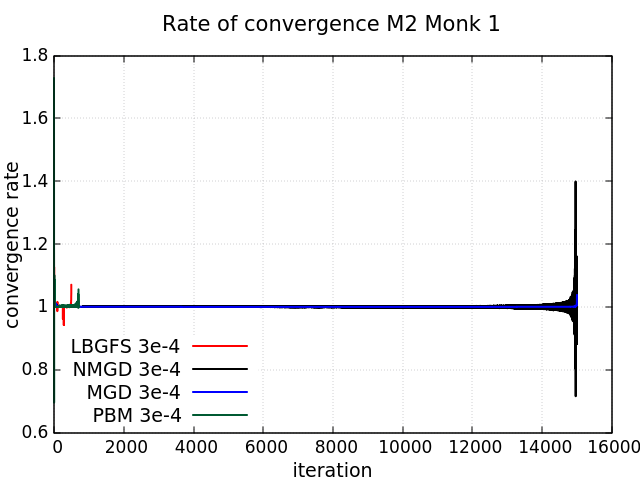
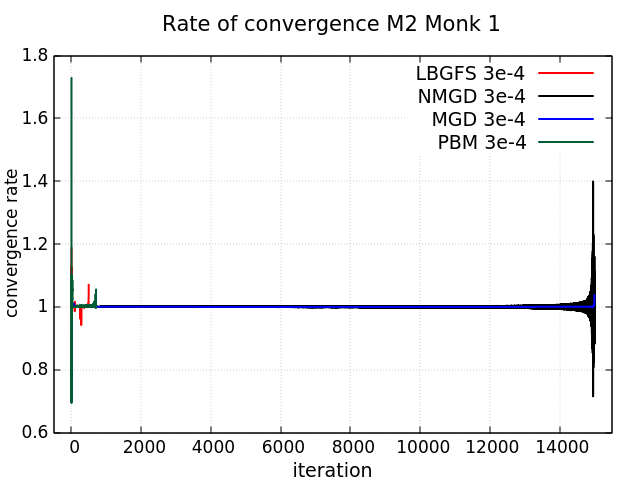
update rate of convergence section

diff --git a/docs/report/sez/experiments.tex b/docs/report/sez/experiments.tex
@@ -134,22 +134,133 @@ As we expect from the analysis we made, L-BFGS reached a superlinear convergence
 It's interesting to view that all of these methods, even with a noisy dataset as Monk 3, converge with the same convergence rate as mentioned in the theory. The rate of convergence curves obtained, also with an enlargement for each of them put to the side, are shown below.
 
 \subsubsection{M1 comparison}
-
+\begin{figure}[H]
+	\centering
+	\includegraphics[width=0.6\linewidth]{data/Comparison/Monk1/Monk1_M1_CR_standard.png}
+	\caption{M1 converge rate comparison Monk 1 of configurations defined in table \ref{tab:nets_comp}.}
+	\label{fig:CR-M1-Monk1-Standard}
+\end{figure}
 
 \begin{figure}[H]
 	\centering
-	\begin{minipage}[t]{0.5\linewidth}		\includegraphics[width=\linewidth]{data/Comparison/Monk1/}
-		\subcaption{Original}
+	\begin{minipage}[t]{0.525\linewidth}		
+		\includegraphics[width=\linewidth]{data/Comparison/Monk1/Monk1_M1_CR_zoomLeft.png}
+		\subcaption{Left zoom}
 	\end{minipage}%
-	\begin{minipage}[t]{0.5\linewidth}
-		\includegraphics[width=\linewidth]{data/Comparison/Monk1/}
-		\subcaption{Zoom}
+	\begin{minipage}[t]{0.525\linewidth}
+		\includegraphics[width=\linewidth]{data/Comparison/Monk1/Monk1_M1_CR_zoomRight.png}
+		\subcaption{Right zoom}
 	\end{minipage}
-	\caption{Converge rate comparison Monk 1 of configurations defined in table \ref{tab:nets_comp}}
-	\label{CR-Monk1}
+	\caption{M1 converge rate comparison Monk 1 of configurations defined in table \ref{tab:nets_comp}.}
+	\label{fig:CR-M1-Monk1-Zoom}
+\end{figure}
+
+\begin{figure}[H]
+	\centering
+	\includegraphics[width=0.6\linewidth]{data/Comparison/Monk2/Monk2_M1_CR_standard.png}
+	\caption{M1 converge rate comparison Monk 2 of configurations defined in table \ref{tab:nets_comp}.}
+	\label{fig:CR-M1-Monk2-Standard}
+\end{figure}
+
+\begin{figure}[H]
+	\centering
+	\begin{minipage}[t]{0.525\linewidth}		
+		\includegraphics[width=\linewidth]{data/Comparison/Monk2/Monk2_M1_CR_zoomLeft.png}
+		\subcaption{Left zoom}
+	\end{minipage}%
+	\begin{minipage}[t]{0.525\linewidth}
+		\includegraphics[width=\linewidth]{data/Comparison/Monk2/Monk2_M1_CR_zoomRight.png}
+		\subcaption{Right zoom}
+	\end{minipage}
+	\caption{M1 converge rate comparison Monk 2 of configurations defined in table \ref{tab:nets_comp}.}
+	\label{fig:CR-M1-Monk2-Zoom}
+\end{figure}
+
+\begin{figure}[H]
+	\centering
+	\includegraphics[width=0.6\linewidth]{data/Comparison/Monk3/Monk3_M1_CR_standard.png}
+	\caption{M1 converge rate comparison Monk 3 of configurations defined in table \ref{tab:nets_comp}.}
+	\label{fig:CR-M1-Monk3-Standard}
+\end{figure}
+
+\begin{figure}[H]
+	\centering
+	\begin{minipage}[t]{0.525\linewidth}		
+		\includegraphics[width=\linewidth]{data/Comparison/Monk3/Monk3_M1_CR_zoomLeft.png}
+		\subcaption{Left zoom}
+	\end{minipage}%
+	\begin{minipage}[t]{0.525\linewidth}
+		\includegraphics[width=\linewidth]{data/Comparison/Monk3/Monk3_M1_CR_zoomRight.png}
+		\subcaption{Right zoom}
+	\end{minipage}
+	\caption{M1 converge rate comparison Monk 3 of configurations defined in table \ref{tab:nets_comp}.}
+	\label{fig:CR-M1-Monk3-Zoom}
 \end{figure}
 
 \subsubsection{M2 comparison}
+\begin{figure}[H]
+	\centering
+	\includegraphics[width=0.6\linewidth]{data/Comparison/Monk1/Monk1_M2_CR_standard.png}
+	\caption{M2 converge rate comparison Monk 1 of configurations defined in table \ref{tab:nets_comp}.}
+	\label{fig:CR-M2-Monk1-Standard}
+\end{figure}
+
+\begin{figure}[H]
+	\centering
+	\begin{minipage}[t]{0.525\linewidth}		
+		\includegraphics[width=\linewidth]{data/Comparison/Monk1/Monk1_M2_CR_zoomLeft.png}
+		\subcaption{Left zoom}
+	\end{minipage}%
+	\begin{minipage}[t]{0.525\linewidth}
+		\includegraphics[width=\linewidth]{data/Comparison/Monk1/Monk1_M2_CR_zoomRight.png}
+		\subcaption{Right zoom}
+	\end{minipage}
+	\caption{M2 converge rate comparison Monk 1 of configurations defined in table \ref{tab:nets_comp}.}
+	\label{fig:CR-M2-Monk1-Zoom}
+\end{figure}
+
+\begin{figure}[H]
+	\centering
+	\includegraphics[width=0.6\linewidth]{data/Comparison/Monk2/Monk2_M2_CR_standard.png}
+	\caption{M2 converge rate comparison Monk 2 of configurations defined in table \ref{tab:nets_comp}.}
+	\label{fig:CR-M2-Monk2-Standard}
+\end{figure}
+
+\begin{figure}[H]
+	\centering
+	\begin{minipage}[t]{0.525\linewidth}		
+		\includegraphics[width=\linewidth]{data/Comparison/Monk2/Monk2_M2_CR_zoomLeft.png}
+		\subcaption{Left zoom}
+	\end{minipage}%
+	\begin{minipage}[t]{0.525\linewidth}
+		\includegraphics[width=\linewidth]{data/Comparison/Monk2/Monk2_M2_CR_zoomRight.png}
+		\subcaption{Right zoom}
+	\end{minipage}
+	\caption{M2 converge rate comparison Monk 2 of configurations defined in table \ref{tab:nets_comp}.}
+	\label{fig:CR-M2-Monk2-Zoom}
+\end{figure}
+
+\begin{figure}[H]
+	\centering
+	\includegraphics[width=0.6\linewidth]{data/Comparison/Monk3/Monk3_M2_CR_standard.png}
+	\caption{M2 converge rate comparison Monk 3 of configurations defined in table \ref{tab:nets_comp}.}
+	\label{fig:CR-M2-Monk3-Standard}
+\end{figure}
+
+\begin{figure}[H]
+	\centering
+	\begin{minipage}[t]{0.525\linewidth}		
+		\includegraphics[width=\linewidth]{data/Comparison/Monk3/Monk3_M2_CR_zoomLeft.png}
+		\subcaption{Left zoom}
+	\end{minipage}%
+	\begin{minipage}[t]{0.525\linewidth}
+		\includegraphics[width=\linewidth]{data/Comparison/Monk3/Monk3_M2_CR_zoomRight.png}
+		\subcaption{Right zoom}
+	\end{minipage}
+	\caption{M2 converge rate comparison Monk 3 of configurations defined in table \ref{tab:nets_comp}.}
+	\label{fig:CR-M2-Monk3-Zoom}
+\end{figure}
+
 
 \subsection{Errors with respect to the minima}
 \label{sec:minimum_error}
@@ -179,11 +290,11 @@ An important thing to notice is that $f^*$ might not be 0 because it depends on 
 
 \begin{figure}[H]
 	\centering
-	\begin{minipage}[t]{0.5\linewidth}
+	\begin{minipage}[t]{0.6\linewidth}
 		\includegraphics[width=\linewidth]{data/Comparison/Monk2/Monk2_R_Comparison_log_standard.png}
 		\subcaption{Original}
 	\end{minipage}%
-	\begin{minipage}[t]{0.5\linewidth}
+	\begin{minipage}[t]{0.6\linewidth}
 		\includegraphics[width=\linewidth]{data/Comparison/Monk2/Monk2_R_Comparison_log_zoom.png}
 		\subcaption{Zoom}
 	\end{minipage}
